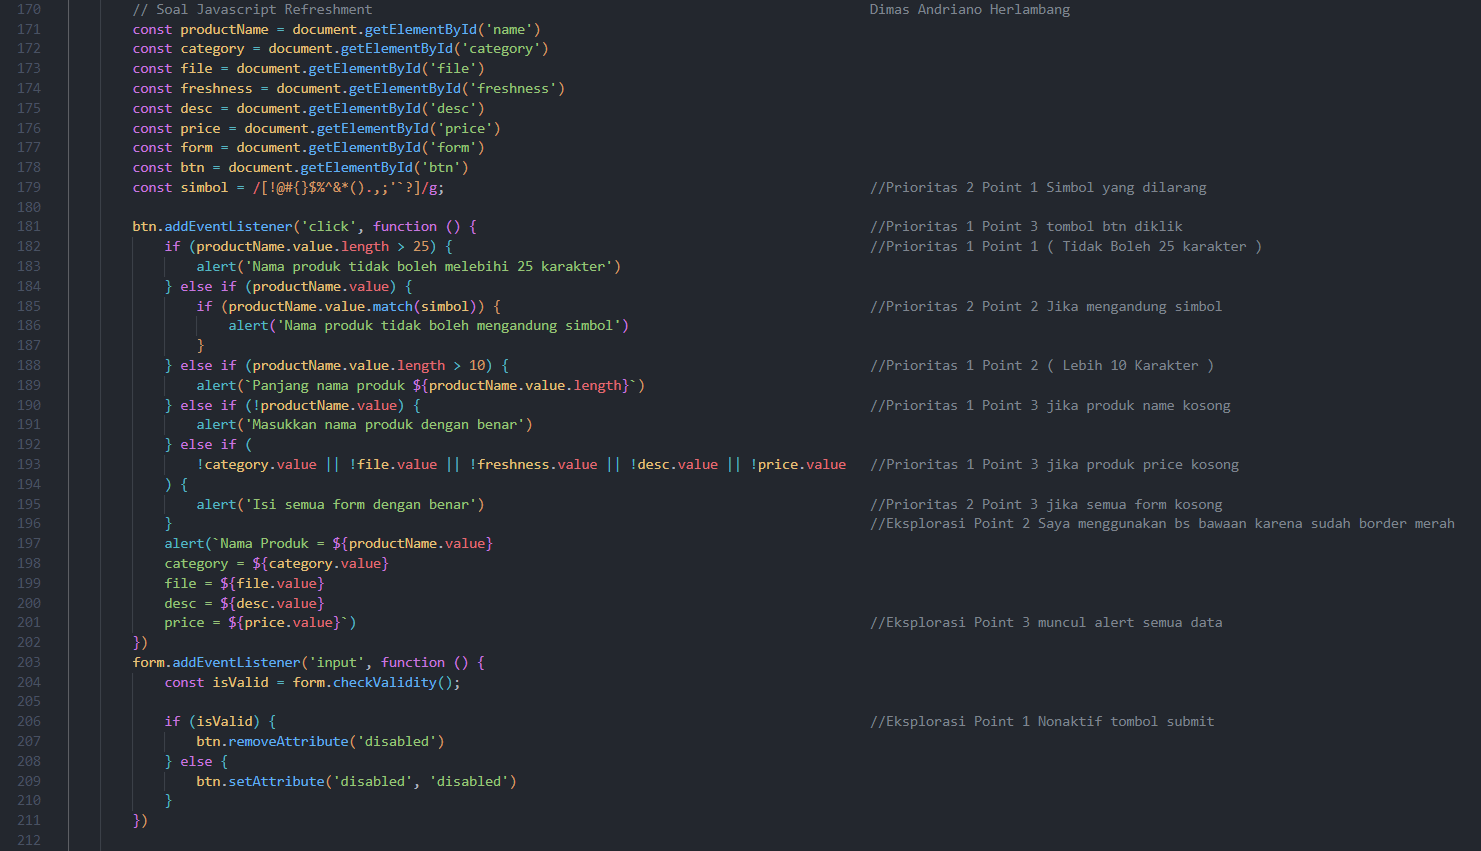
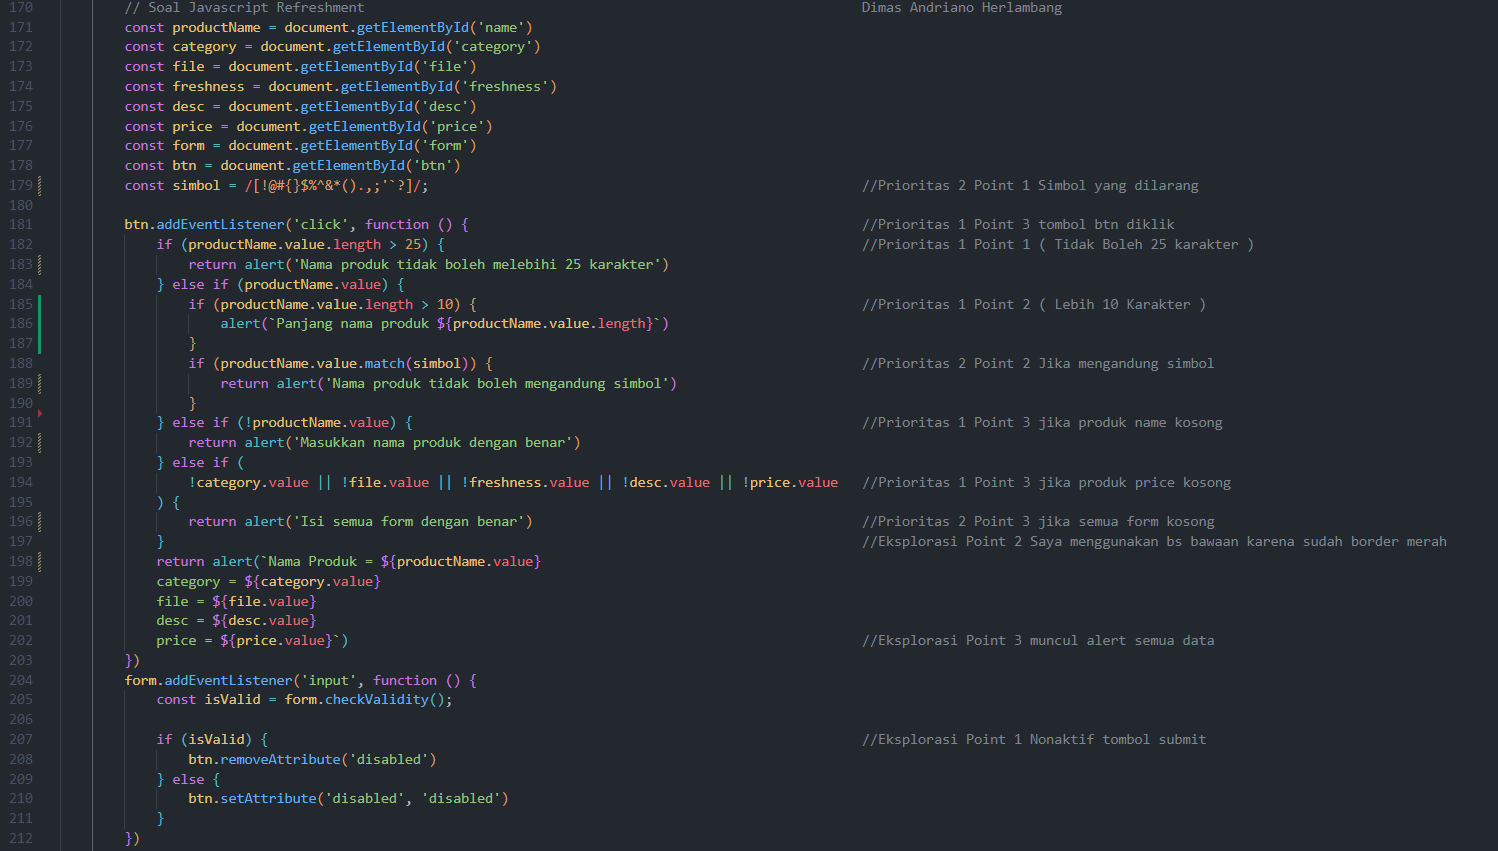
Fix: logika perkondisian, ss | Javascript Refreshment

diff --git a/10_Javascript Refreshment/Praktikum/createProduct.html b/10_Javascript Refreshment/Praktikum/createProduct.html
@@ -176,25 +176,26 @@
 		const price = document.getElementById('price')
 		const form = document.getElementById('form')
 		const btn = document.getElementById('btn')
-		const simbol = /[!@#{}$%^&*().,;'`?]/g;														//Prioritas 2 Point 1 Simbol yang dilarang
+		const simbol = /[!@#{}$%^&*().,;'`?]/;														//Prioritas 2 Point 1 Simbol yang dilarang
 
 		btn.addEventListener('click', function () {													//Prioritas 1 Point 3 tombol btn diklik 
 			if (productName.value.length > 25) {													//Prioritas 1 Point 1 ( Tidak Boleh 25 karakter )
-				alert('Nama produk tidak boleh melebihi 25 karakter')
+				return alert('Nama produk tidak boleh melebihi 25 karakter')
 			} else if (productName.value) {
-				if (productName.value.match(simbol)) {												//Prioritas 2 Point 2 Jika mengandung simbol
-					alert('Nama produk tidak boleh mengandung simbol')
+				if (productName.value.length > 10) {												//Prioritas 1 Point 2 ( Lebih 10 Karakter )
+					alert(`Panjang nama produk ${productName.value.length}`)
 				}
-			} else if (productName.value.length > 10) {												//Prioritas 1 Point 2 ( Lebih 10 Karakter )
-				alert(`Panjang nama produk ${productName.value.length}`)
+				if (productName.value.match(simbol)) {												//Prioritas 2 Point 2 Jika mengandung simbol
+					return alert('Nama produk tidak boleh mengandung simbol')
+				}
 			} else if (!productName.value) {														//Prioritas 1 Point 3 jika produk name kosong
-				alert('Masukkan nama produk dengan benar')
+				return alert('Masukkan nama produk dengan benar')
 			} else if (
 				!category.value || !file.value || !freshness.value || !desc.value || !price.value	//Prioritas 1 Point 3 jika produk price kosong
 			) {
-				alert('Isi semua form dengan benar')												//Prioritas 2 Point 3 jika semua form kosong
+				return alert('Isi semua form dengan benar')											//Prioritas 2 Point 3 jika semua form kosong
 			}																						//Eksplorasi Point 2 Saya menggunakan bs bawaan karena sudah border merah
-			alert(`Nama Produk = ${productName.value}														
+			return alert(`Nama Produk = ${productName.value}														
 			category = ${category.value} 
 			file = ${file.value} 
 			desc = ${desc.value} 

diff --git a/10_Javascript Refreshment/Readme.md b/10_Javascript Refreshment/Readme.md
@@ -1,0 +1,19 @@
+# Summary
+
+## Apa itu Frontend Framework
+
+Sekumpulan aturan code yang bisa kita gunakan untuk mempermudah dalam membuat suatu tampilan website.
+
+## Kenapa Bootstrap
+
+- Gratis
+- Mudah Dipelajari
+- Cepat
+- Mendukung Responsif
+
+## Class Pada Bootstrap
+
+| Container | container, container-fluid |
+| Row | row |
+| Column | col-md-12, col-lg-6, col-sm-6 |
+| Button | btn-primary, btn-success, btn-danger |
